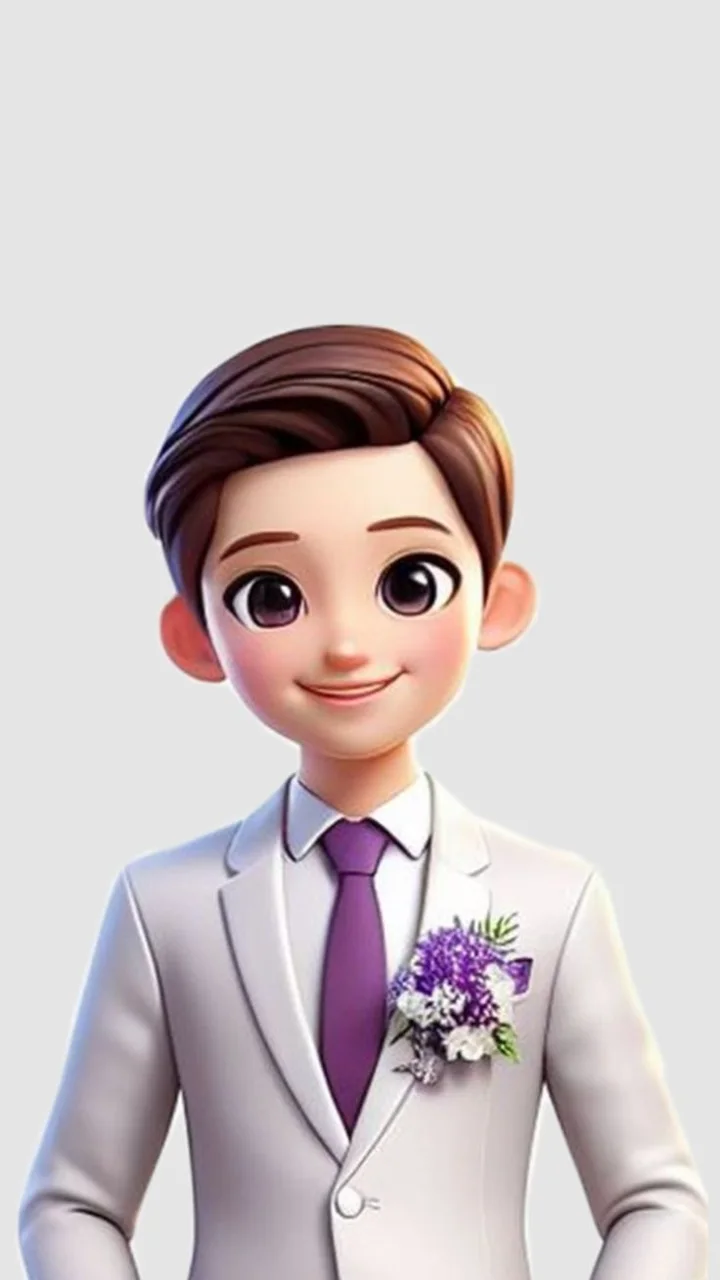
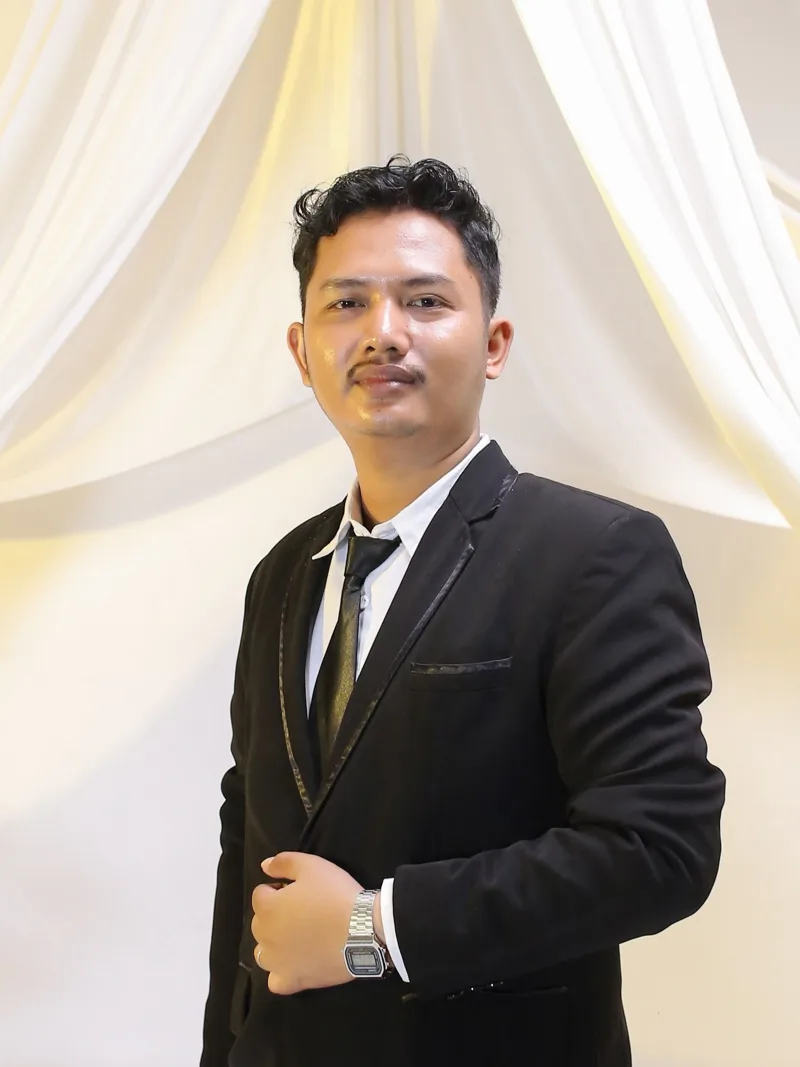
update data gallery & foto mempelai

diff --git a/src/styles.css b/src/styles.css
@@ -371,3 +371,37 @@ html { scroll-behavior: auto; } /* tombol navbar tetap smooth lewat scrollIntoVi
   .sec { backdrop-filter: none; -webkit-backdrop-filter: none; background: rgba(255, 255, 255, .82); }
   .sec.alt { background: rgba(244, 236, 252, .86); }
 }
+
+/* =====================================================
+   Foto asli mempelai + galeri prewedding
+   ===================================================== */
+.arch img { mix-blend-mode: normal; }
+
+.galeri { display: grid; grid-template-columns: 1fr 1fr; gap: 1.2rem 1rem; margin-top: 1.6rem; }
+.sel { min-width: 0; }
+.sel.lebar { grid-column: 1 / -1; }
+.polaroid {
+  display: block; width: 100%; padding: .45rem .45rem 1.6rem; border: 0; border-radius: 6px; cursor: zoom-in; background: #fff;
+  box-shadow: 0 10px 26px rgba(91, 58, 140, .25); transform: rotate(var(--r, 0deg));
+  transition: transform .35s cubic-bezier(.2, .8, .2, 1), box-shadow .35s;
+}
+.polaroid:hover { transform: rotate(0) scale(1.03); box-shadow: 0 16px 34px rgba(91, 58, 140, .35); }
+.polaroid img { display: block; width: 100%; aspect-ratio: 3 / 4; object-fit: cover; border-radius: 3px; }
+.sel.lebar .polaroid img { aspect-ratio: 4 / 5; }
+.sel.asli .polaroid img { aspect-ratio: auto; object-fit: contain; }
+
+.lightbox { position: fixed; inset: 0; z-index: 80; display: grid; place-items: center; background: rgba(32, 18, 52, .94); animation: muncul .3s both; }
+.lightbox img { max-width: 94vw; max-height: 84vh; object-fit: contain; border-radius: 8px; box-shadow: 0 20px 60px rgba(0, 0, 0, .5); animation: muncul .35s both; }
+@keyframes muncul { from { opacity: 0; transform: scale(.96); } to { opacity: 1; transform: none; } }
+.lb-tutup, .lb-nav {
+  position: absolute; display: grid; place-items: center; width: 46px; height: 46px; border: 0; border-radius: 50%;
+  color: #fff; background: rgba(255, 255, 255, .16); cursor: pointer;
+}
+.lb-tutup { top: max(1rem, env(safe-area-inset-top)); right: 1rem; }
+.lb-nav { top: 50%; transform: translateY(-50%); }
+.lb-nav.kiri { left: .6rem; }
+.lb-nav.kanan { right: .6rem; }
+.lb-hitung { position: absolute; bottom: max(1rem, env(safe-area-inset-bottom)); left: 0; right: 0; margin: 0; text-align: center; color: #fff; font-weight: 700; }
+
+/* 7 menu di navbar: bagi rata lebarnya */
+.nav button { min-width: 0; flex: 1; padding: .35rem 0; font-size: .6rem; }

diff --git a/src/components/Lightbox.jsx b/src/components/Lightbox.jsx
@@ -1,0 +1,51 @@
+import { useEffect, useRef } from "react";
+import Icon from "./Icon.jsx";
+
+// Penampil foto layar penuh: tombol panah, geser (swipe), keyboard, dan Esc untuk menutup.
+export default function Lightbox({ foto, index, onClose, onGo }) {
+  const awalX = useRef(null);
+
+  useEffect(() => {
+    const onKey = (e) => {
+      if (e.key === "Escape") onClose();
+      if (e.key === "ArrowRight") onGo(1);
+      if (e.key === "ArrowLeft") onGo(-1);
+    };
+    document.body.style.overflow = "hidden";
+    window.addEventListener("keydown", onKey);
+    return () => {
+      document.body.style.overflow = "";
+      window.removeEventListener("keydown", onKey);
+    };
+  }, []);
+
+  const f = foto[index];
+  const klik = (fn) => (e) => { e.stopPropagation(); fn(); };
+
+  return (
+    <div
+      className="lightbox"
+      role="dialog"
+      aria-modal="true"
+      aria-label="Galeri foto"
+      onClick={onClose}
+      onTouchStart={(e) => { awalX.current = e.touches[0].clientX; }}
+      onTouchEnd={(e) => {
+        if (awalX.current == null) return;
+        const dx = e.changedTouches[0].clientX - awalX.current;
+        awalX.current = null;
+        if (Math.abs(dx) > 50) onGo(dx < 0 ? 1 : -1);
+      }}
+    >
+      <button className="lb-tutup" onClick={klik(onClose)} aria-label="Tutup"><Icon name="tutup" size={22} /></button>
+      <img key={index} src={f.src} alt={f.alt} onClick={(e) => e.stopPropagation()} />
+      {foto.length > 1 && (
+        <>
+          <button className="lb-nav kiri" onClick={klik(() => onGo(-1))} aria-label="Foto sebelumnya"><Icon name="kiri" size={24} /></button>
+          <button className="lb-nav kanan" onClick={klik(() => onGo(1))} aria-label="Foto berikutnya"><Icon name="kanan" size={24} /></button>
+        </>
+      )}
+      <p className="lb-hitung">{index + 1} / {foto.length}</p>
+    </div>
+  );
+}

diff --git a/src/components/Galeri.jsx b/src/components/Galeri.jsx
@@ -1,0 +1,31 @@
+import { useState } from "react";
+import { createPortal } from "react-dom";
+import galeri from "../data/galeri.json";
+import Reveal from "./Reveal.jsx";
+import Judul from "./Judul.jsx";
+import Lightbox from "./Lightbox.jsx";
+
+// Urutan foto = urutan di src/data/galeri.json
+export default function Galeri() {
+  const [buka, setBuka] = useState(null);
+  const foto = galeri.foto.filter((f) => f.tampil !== false);
+  const go = (d) => setBuka((i) => (i + d + foto.length) % foto.length);
+
+  return (
+    <section className="sec" id="galeri">
+      <Judul icon="kamera">{galeri.judul}</Judul>
+      <Reveal delay={0.1}><p className="lead">{galeri.keterangan}</p></Reveal>
+      <div className="galeri">
+        {foto.map((f, i) => (
+          <Reveal key={f.src} anim={i % 2 ? "right" : "left"} delay={(i % 2) * 0.12} className={`sel ${f.lebar ? "lebar" : ""} ${f.asli ? "asli" : ""}`}>
+            <button className="polaroid" style={{ "--r": `${i % 2 ? 1.6 : -1.6}deg` }} onClick={() => setBuka(i)} aria-label={`Perbesar foto ${i + 1}`}>
+              <img src={f.src} alt={f.alt} loading="lazy" />
+            </button>
+          </Reveal>
+        ))}
+      </div>
+      {/* portal: panel kaca (backdrop-filter) akan mengurung elemen fixed bila tidak dipindah ke body */}
+      {buka !== null && createPortal(<Lightbox foto={foto} index={buka} onClose={() => setBuka(null)} onGo={go} />, document.body)}
+    </section>
+  );
+}

diff --git a/index.html b/index.html
@@ -2,24 +2,15 @@
 <html lang="id">
   <head>
     <meta charset="UTF-8" />
-    <meta
-      name="viewport"
-      content="width=device-width, initial-scale=1, viewport-fit=cover"
-    />
+    <meta name="viewport" content="width=device-width, initial-scale=1, viewport-fit=cover" />
     <meta name="theme-color" content="#CDB6EE" />
-    <title>The Wedding of Uum & Aziz</title>
-    <meta property="og:title" content="The Wedding of Uum & Aziz" />
-    <meta
-      property="og:description"
-      content="Minggu, 27 Desember 2026 - Rangkasbitung, Lebak"
-    />
+    <title>Undangan Pernikahan Ratu & Aziz</title>
+    <meta property="og:title" content="Undangan Pernikahan Ratu & Aziz" />
+    <meta property="og:description" content="Minggu, 27 Desember 2026 - Rangkasbitung, Lebak" />
     <meta property="og:image" content="/img/mempelai-wanita.webp" />
     <link rel="preconnect" href="https://fonts.googleapis.com" />
     <link rel="preconnect" href="https://fonts.gstatic.com" crossorigin />
-    <link
-      href="https://fonts.googleapis.com/css2?family=Amiri:wght@400;700&family=Cormorant+Garamond:ital,wght@0,500;0,700;1,500&family=Nunito:wght@400;600;700&display=swap"
-      rel="stylesheet"
-    />
+    <link href="https://fonts.googleapis.com/css2?family=Amiri:wght@400;700&family=Cormorant+Garamond:ital,wght@0,500;0,700;1,500&family=Nunito:wght@400;600;700&display=swap" rel="stylesheet" />
   </head>
   <body>
     <div id="root"></div>

diff --git a/src/components/Isi.jsx b/src/components/Isi.jsx
@@ -3,6 +3,7 @@ import Amplop from "./Amplop.jsx";
 import Rsvp from "./Rsvp.jsx";
 import Reveal from "./Reveal.jsx";
 import Judul from "./Judul.jsx";
+import Galeri from "./Galeri.jsx";
 import Icon from "./Icon.jsx";
 
 function Pemisah() {
@@ -78,7 +79,10 @@ export default function Isi({ data, tamu }) {
       </section>
 
       <Pemisah />
-      <section className="sec" id="acara">
+      <Galeri />
+
+      <Pemisah />
+      <section className="sec alt" id="acara">
         <Judul icon="kalender">Hari Bahagia</Judul>
         <Reveal delay={0.1}><p className="tanggal">{acara.tanggal_lengkap}</p></Reveal>
         <Reveal anim="zoom" delay={0.2}><Countdown target={acara.mulai_iso} /></Reveal>

diff --git a/src/components/Nav.jsx b/src/components/Nav.jsx
@@ -3,6 +3,7 @@ import { useEffect, useState } from "react";
 const ITEMS = [
   ["beranda", "Beranda", "M3 11l9-8 9 8v9a1 1 0 0 1-1 1h-5v-6H9v6H4a1 1 0 0 1-1-1z"],
   ["mempelai", "Mempelai", "M12 21s-7-4.6-9.3-9A5.3 5.3 0 0 1 12 6.3 5.3 5.3 0 0 1 21.3 12C19 16.4 12 21 12 21z"],
+  ["galeri", "Galeri", "M4 8h3l2-3h6l2 3h3v11H4zM8.5 13.5a3.5 3.5 0 1 0 7 0a3.5 3.5 0 1 0 -7 0z"],
   ["acara", "Acara", "M4 6h16v14H4zM4 10h16M8 3v4M16 3v4"],
   ["lokasi", "Lokasi", "M12 21s7-6.2 7-11a7 7 0 0 0-14 0c0 4.8 7 11 7 11zM12 12a2.5 2.5 0 1 0 0-5 2.5 2.5 0 0 0 0 5z"],
   ["rsvp", "RSVP", "M4 5h16v11H9l-5 4z"],

diff --git a/src/components/Icon.jsx b/src/components/Icon.jsx
@@ -19,6 +19,10 @@ const P = {
   salin: ["M9 9h11v11H9z", "M5 15V4h11"],
   bank: ["M3 10l9-6 9 6", "M5 10v8", "M9 10v8", "M15 10v8", "M19 10v8", "M3 20h18"],
   dompet: ["M3 7h16a2 2 0 0 1 2 2v9a2 2 0 0 1-2 2H5a2 2 0 0 1-2-2z", "M3 7V6a2 2 0 0 1 2-2h12", "M16 13.5h3"],
+  kamera: ["M4 8h3l2-3h6l2 3h3v11H4z", c(12, 13.5, 3.5)],
+  kiri: ["M15 5l-7 7 7 7"],
+  kanan: ["M9 5l7 7-7 7"],
+  tutup: ["M6 6l12 12", "M18 6L6 18"],
   gift: ["M4 10h16v10H4z", "M3 7h18v3H3z", "M12 7v13", "M12 7c-2-4-6-3-5 0", "M12 7c2-4 6-3 5 0"],
 };
 

diff --git a/src/hooks/useAutoScroll.js b/src/hooks/useAutoScroll.js
@@ -27,7 +27,7 @@ export default function useAutoScroll(aktif, onEnd) {
       last = now;
       const el = document.activeElement;
       const mengetik = el && /^(INPUT|TEXTAREA|SELECT)$/.test(el.tagName);
-      if (now < tunggu || mengetik || document.hidden) {
+      if (now < tunggu || mengetik || document.hidden || document.body.style.overflow === "hidden") {
         sinkron = true;
       } else {
         if (sinkron) { pos = window.scrollY; sinkron = false; }

diff --git a/README.md b/README.md
@@ -30,3 +30,11 @@ git remote add origin <URL-REPO>
 git push -u origin main
 ```
 Import repo di Vercel (framework Vite terdeteksi otomatis, build `npm run build`, output `dist`).
+
+## Foto
+- **Foto mempelai:** ganti file `public/img/mempelai-pria.webp` dan `mempelai-wanita.webp` (rasio 3:4 paling pas).
+- **Galeri prewedding:** taruh file di `public/img/prewed/`, lalu atur di `src/data/galeri.json`.
+  - **Urutan** = urutan baris di array `foto`. Pindahkan baris ke atas atau bawah untuk mengubah urutan.
+  - `"lebar": true` membuat foto tampil selebar panel (tanpa ini, 2 foto berdampingan).
+  - `"asli": true` menampilkan foto tanpa dipotong (cocok untuk kolase).
+  - `"tampil": false` menyembunyikan foto tanpa menghapus barisnya.
